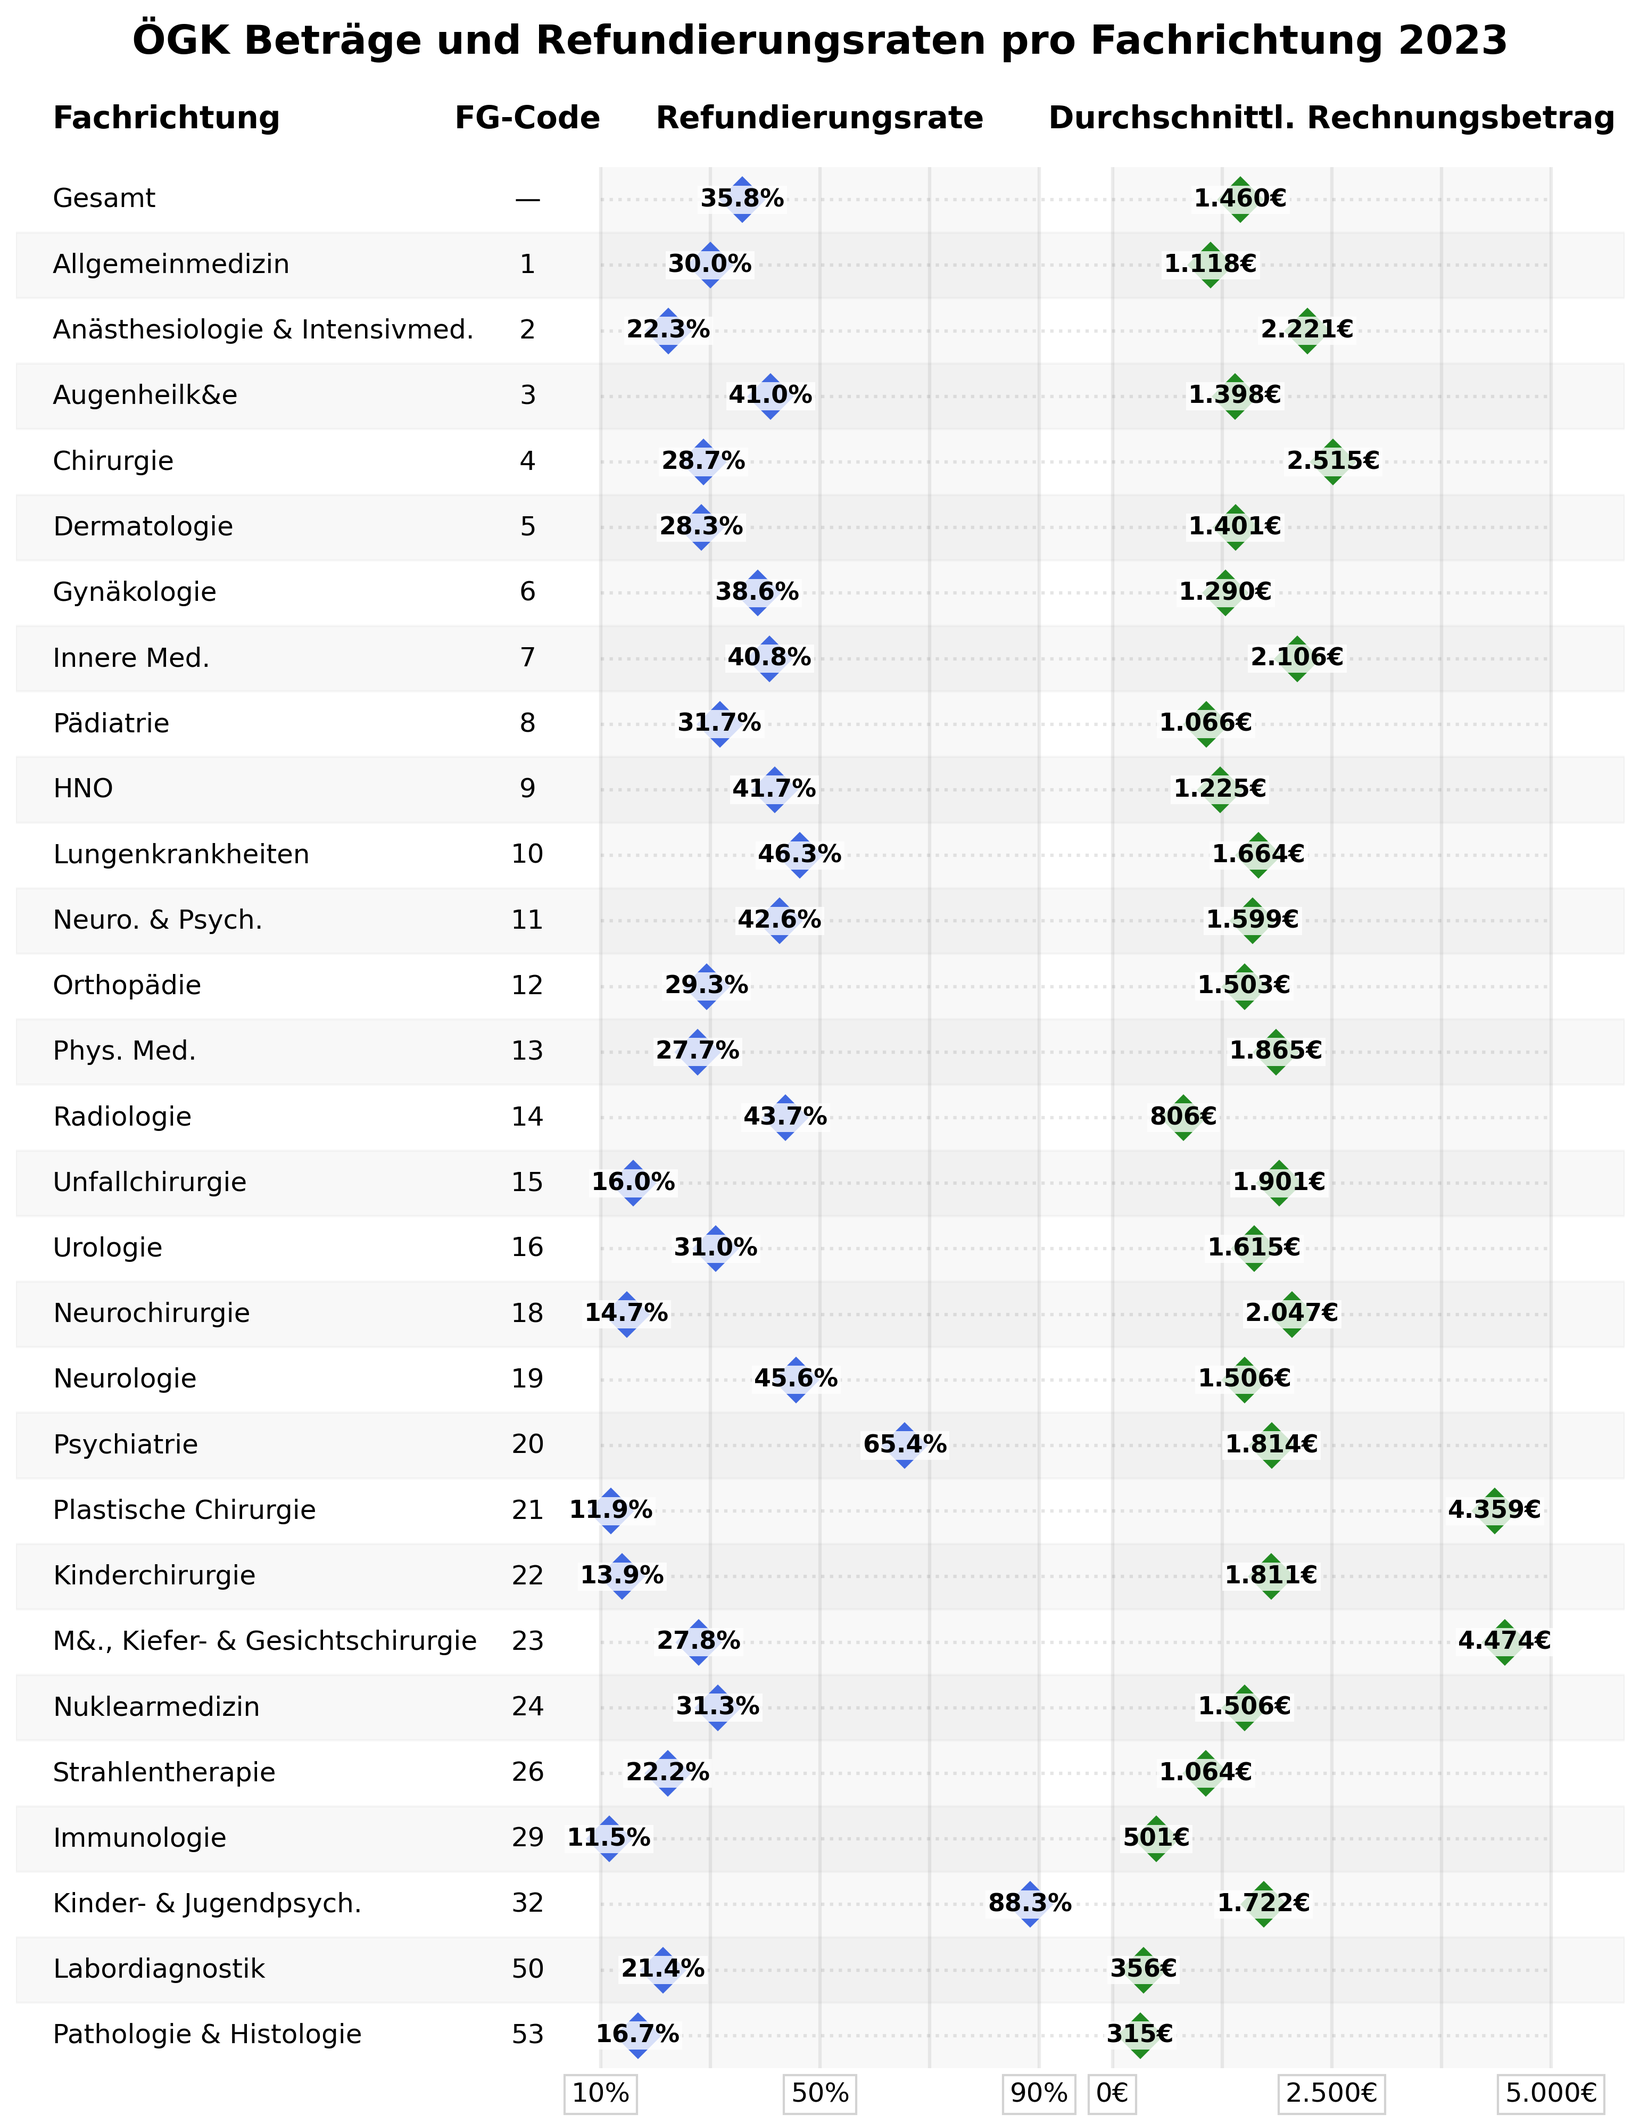
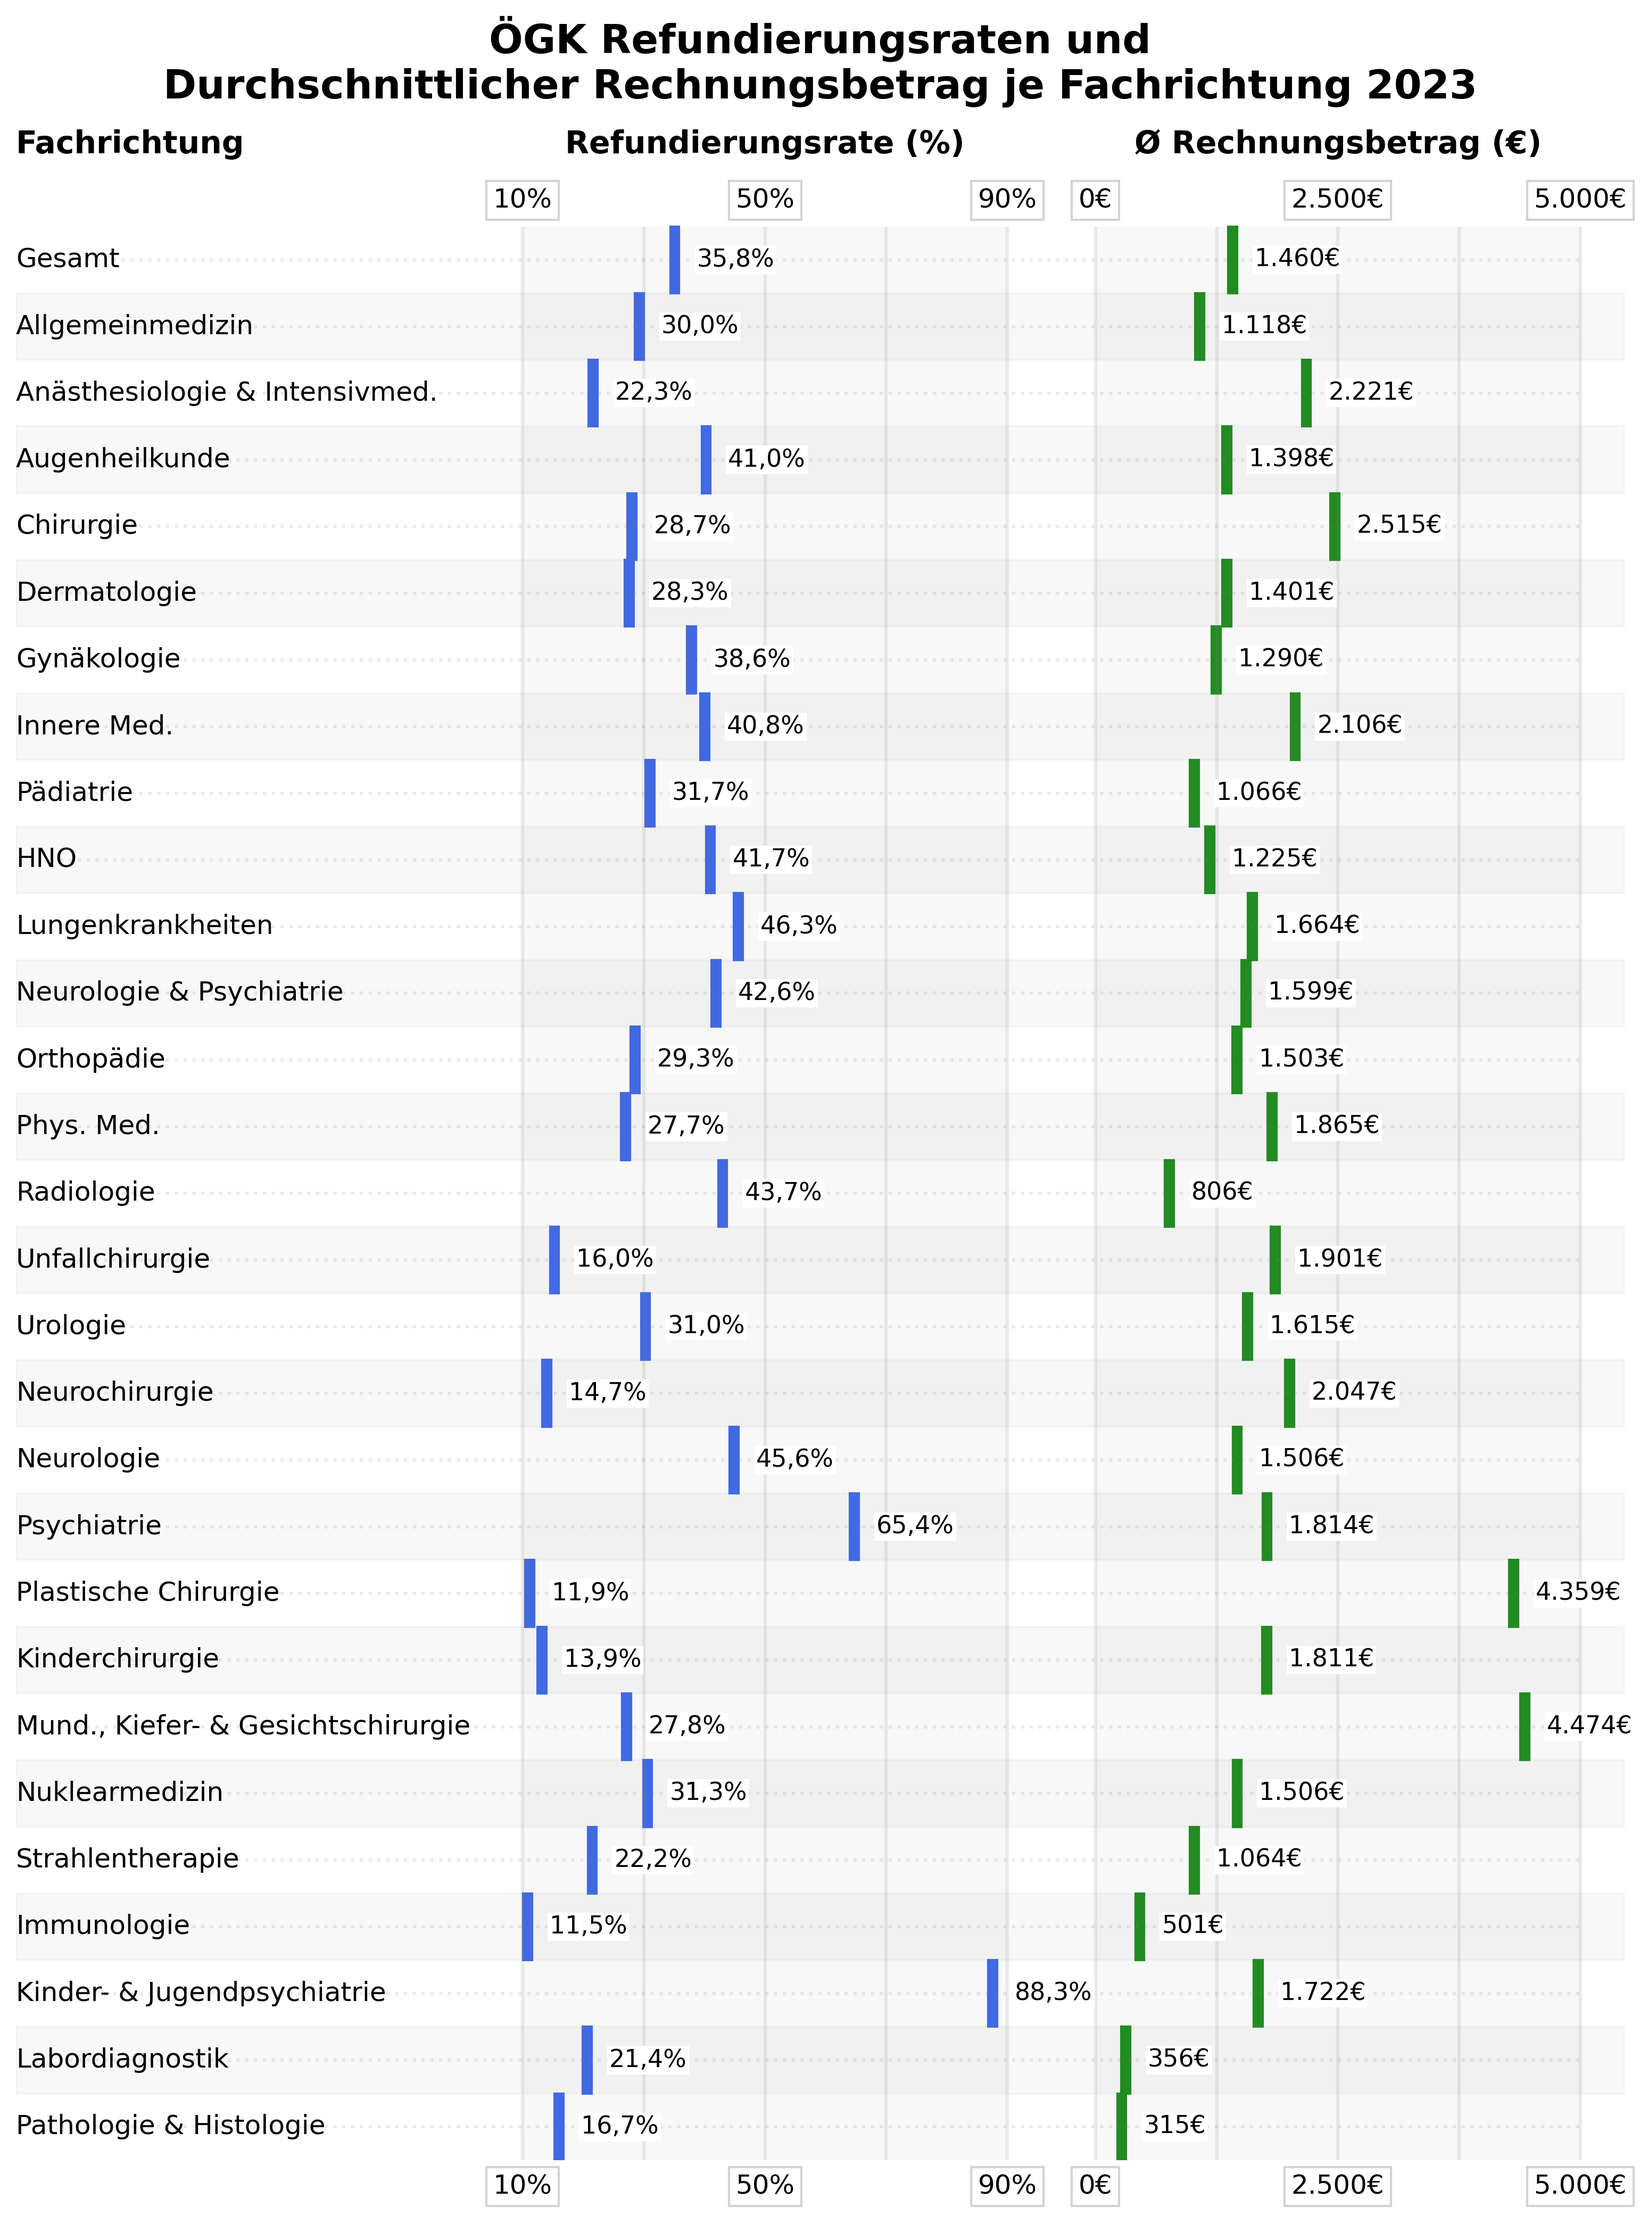
improve per fachrichtung plot

diff --git a/visualize/plot_oegk_betraege_pro_fachrichtung.py b/visualize/plot_oegk_betraege_pro_fachrichtung.py
@@ -28,31 +28,46 @@ df_final = df_final.dropna(subset=['Refundierungen', 'Rechnungsbeträge'])
 # Create shortened names with specific replacements
 def shorten_name(name):
     replacements = {
-        'FA für ': '',
-        'Arzt für ': '',
-        'Frauenheilkunde und Geburtshilfe': 'Gynäkologie',
-        'Haut- und Geschlechtskrankheiten': 'Dermatologie',
-        'Kinder- und Jugendheilkunde': 'Pädiatrie',
-        'Innere Medizin': 'Innere Med.',
-        'Orthopädie und orthopädische Chirurgie': 'Orthopädie',
-        'Physikalische Medizin': 'Phys. Med.',
-        'medizinische und chemische Labordiagnostik': 'Labordiagnostik',
-        'Mund-, Kiefer- und Gesichtschirurgie': 'MKG-Chirurgie',
-        'Strahlentherapie - Radioonkologie': 'Strahlentherapie',
-        'Hygiene und Mikrobiologie bzw. Labordiagnostik': 'Hygiene & Mikrobiologie',
-        'Neurologie und Psychiatrie/ Psychiatrie und Neurologie': 'Neuro. & Psych.',
-        'Hals-, Nasen- und Ohrenerkrankungen': 'HNO',
-        'Anästhesiologie und Intensivmedizin': 'Anästhesiologie & Intensivmed.',
-        'Augenheilkunde und Optometrie': 'Augenheilkunde',
-        'Kinder- und Jugendpsychiatrie': 'Kinder- & Jugendpsych.',
-        'Pathologie und Histologie': 'Pathologie & Histologie',
-        'und': '&'
+        "FA für ": "",
+        "Arzt für ": "",
+        "Frauenheilkunde und Geburtshilfe": "Gynäkologie",
+        "Haut- und Geschlechtskrankheiten": "Dermatologie",
+        "Kinder- und Jugendheilkunde": "Pädiatrie",
+        "Innere Medizin": "Innere Med.",
+        "Orthopädie und orthopädische Chirurgie": "Orthopädie",
+        "Physikalische Medizin": "Phys. Med.",
+        "medizinische und chemische Labordiagnostik": "Labordiagnostik",
+        "Mund-, Kiefer- und Gesichtschirurgie": "MKG-Chirurgie",
+        "Strahlentherapie - Radioonkologie": "Strahlentherapie",
+        "Hygiene und Mikrobiologie bzw. Labordiagnostik": "Hygiene & Mikrobiologie",
+        "Neurologie und Psychiatrie/ Psychiatrie und Neurologie": "Neurologie & Psychiatrie",
+        "Hals-, Nasen- und Ohrenerkrankungen": "HNO",
+        "Anästhesiologie und Intensivmedizin": "Anästhesiologie & Intensivmed.",
+        "Augenheilkunde und Optometrie": "Augenheilkunde",
+        "Kinder- und Jugendpsychiatrie": "Kinder- & Jugendpsychiatrie",
+        "Pathologie und Histologie": "Pathologie & Histologie",
+        " und ": " & ",
     }
     for old, new in replacements.items():
         name = name.replace(old, new)
     return name
 
 df_final['Kurzname'] = df_final['Fachrichtung'].apply(shorten_name)
+
+# Layout parameters
+FIGURE_WIDTH = 13
+FIGURE_HEIGHT = 16
+LEFT_MARGIN = -0.1
+RIGHT_MARGIN = 3.55
+BOTTOM_MARGIN = -0.5
+TOP_MARGIN = len(df_final)
+SCALE_WIDTH = 1.1
+SCALE_SPACING = 1.3
+
+# Column positions
+COL_FACHRICHTUNG = -0.1
+COL_REFUND = 1.6
+COL_BETRAG = 2.9
 
 # Calculate min/max values for scales
 refund_min = 10  # Start at 10%
@@ -66,93 +81,132 @@ plt.rcParams['axes.facecolor'] = 'white'
 plt.rcParams['font.family'] = 'sans-serif'
 
 # Create the plot with adjusted column widths
-fig, ax = plt.subplots(figsize=(13, 16))  # Adjusted height
-ax.set_xlim(-0.2, 4.2)  # Wider range for better spacing
-ax.set_ylim(-1, len(df_final))  # Reduced bottom space
+fig, ax = plt.subplots(figsize=(FIGURE_WIDTH, FIGURE_HEIGHT))
+ax.set_xlim(LEFT_MARGIN, RIGHT_MARGIN)
+ax.set_ylim(BOTTOM_MARGIN, TOP_MARGIN)
+
+# Create twin axis for top scales
+ax_top = ax.twiny()
+ax_top.set_xlim(LEFT_MARGIN, RIGHT_MARGIN)
+ax_top.set_ylim(BOTTOM_MARGIN, TOP_MARGIN)
+ax_top.axis('off')
 
 # Remove axes
 ax.axis('off')
 
 # Add title
-plt.title('ÖGK Beträge und Refundierungsraten pro Fachrichtung 2023', 
-          pad=10, fontsize=18, fontweight='bold', y=1.03)
+plt.title('ÖGK Refundierungsraten und\nDurchschnittlicher Rechnungsbetrag je Fachrichtung 2023', 
+          pad=25, fontsize=18, fontweight='bold', y=1.02)
 
 # Column headers with adjusted positions
-headers = ['Fachrichtung', 'FG-Code', 'Refundierungsrate', 'Durchschnittl. Rechnungsbetrag']
-positions = [-0.1, 1.2, 2.0, 3.4]  # Moved FG-Code from 0.8 to 1.0
+headers = ["Fachrichtung", "Refundierungsrate (%)", "Ø Rechnungsbetrag (€)"]
+positions = [COL_FACHRICHTUNG, COL_REFUND, COL_BETRAG]
 for i, (header, pos) in enumerate(zip(headers, positions)):
-    ax.text(pos, len(df_final), header, ha='left' if i == 0 else 'center', 
-            va='bottom', fontweight='bold', fontsize=14)
+    ax_top.text(pos, TOP_MARGIN+0.5, header, ha='left' if i == 0 else 'center', 
+                va='bottom', fontweight='bold', fontsize=14)
 
 # Add scale backgrounds and grid
-def draw_scale_background(x, y, width=1.2, height=len(df_final), color='gray', alpha=0.05):
-    ax.add_patch(plt.Rectangle((x-width/2, -0.5), width, height, 
+def draw_scale_background(x, y, width=SCALE_WIDTH, height=TOP_MARGIN, color='gray', alpha=0.05):
+    ax.add_patch(plt.Rectangle((x-width/2, BOTTOM_MARGIN), width, height, 
                               facecolor=color, alpha=alpha, edgecolor='none'))
     # Add vertical grid lines
     for i in range(5):  # 5 grid lines
         grid_x = x - width/2 + (width * i/4)
-        ax.vlines(grid_x, -0.5, height-0.5, color='gray', alpha=0.15, linestyle='-')
+        ax.vlines(grid_x, BOTTOM_MARGIN, height-0.5, color='gray', alpha=0.15, linestyle='-')
 
-draw_scale_background(2.0, -0.5)  # Refundierungsrate background
-draw_scale_background(3.4, -0.5)  # Rechnungsbetrag background
+draw_scale_background(COL_REFUND, BOTTOM_MARGIN)  # Refundierungsrate background
+draw_scale_background(COL_BETRAG, BOTTOM_MARGIN)  # Rechnungsbetrag background
 
 # Plot data
 for idx, row in df_final.iterrows():
-    y_pos = len(df_final) - df_final.index.get_loc(idx) - 1
-    
+    y_pos = TOP_MARGIN - df_final.index.get_loc(idx) - 1
+
     # Background for alternating rows
     if idx % 2 == 0:
         ax.axhspan(y_pos-0.5, y_pos+0.5, color='gray', alpha=0.05)
-    
-    # Fachrichtung (adjusted position)
-    ax.text(-0.1, y_pos, row['Kurzname'], ha='left', va='center', fontsize=12)
-    
-    # FG-Code (adjusted position) - as integer
-    if pd.notna(row['FG-Code']):
-        ax.text(1.2, y_pos, f"{int(row['FG-Code'])}", ha='center', va='center', fontsize=12)
-    else:
-        ax.text(1.2, y_pos, "—", ha='center', va='center', fontsize=12)
-    
+
+    # Fachrichtung
+    ax.text(COL_FACHRICHTUNG, y_pos, row['Kurzname'], ha='left', va='center', fontsize=12)
+
     # Horizontal guide lines (dotted)
-    ax.hlines(y_pos, 1.4, 4.0, color='gray', alpha=0.2, linestyle=':')
-    
+    ax.hlines(y_pos, LEFT_MARGIN+0.1, RIGHT_MARGIN-0.1, color='gray', alpha=0.15, linestyle=':')
+
     # Refundierungsrate (diamond on scale)
     rate = row['Refundierungsrate']
     if not pd.isna(rate):
         # Calculate x position based on value
-        x_pos = 2.0 - 0.6 + (1.2 * (rate - refund_min) / (refund_max - refund_min))
-        ax.plot(x_pos, y_pos, 'D', color='royalblue', markersize=14)
+        x_pos = COL_REFUND - SCALE_WIDTH/2 + (SCALE_WIDTH * (rate - refund_min) / (refund_max - refund_min))
+        ax.add_patch(
+            plt.Rectangle(
+                (x_pos - 0.02, y_pos -0.5), 0.02, 1, color="royalblue", alpha=1
+            )
+        )
+
+        # ax.plot(x_pos, y_pos, 'd', color='royalblue', markersize=14)
         # Add white background to text for better readability
-        ax.text(x_pos, y_pos, f"{rate:.1f}%", ha='center', va='center',
-                color='black', fontsize=11, fontweight='bold',
-                bbox=dict(facecolor='white', edgecolor='none', alpha=0.8, pad=1))
-    
+        ax.text(
+            x_pos+ 0.04,
+            y_pos,
+            f"{rate:.1f}%".replace(".", ","),
+            ha="left",
+            va="center",
+            color="black",
+            fontsize=11,
+            bbox=dict(facecolor="white", edgecolor="none", alpha=1, pad=1),
+        )
+
     # Durchschnittlicher Rechnungsbetrag (diamond on scale)
     avg_amount = row['Durchschnittlicher_Rechnungsbetrag']
     if not pd.isna(avg_amount):
         # Calculate x position based on value
-        x_pos = 3.4 - 0.6 + (1.2 * (avg_amount - betrag_min) / (betrag_max - betrag_min))
-        ax.plot(x_pos, y_pos, 'D', color='forestgreen', markersize=14)
+        x_pos = COL_BETRAG - SCALE_WIDTH/2 + (SCALE_WIDTH * (avg_amount - betrag_min) / (betrag_max - betrag_min))
+        ax.add_patch(
+            plt.Rectangle(
+                (x_pos - 0.02, y_pos -0.5), 0.02, 1, color="forestgreen", alpha=1
+            )
+        )
         formatted_amount = f"{avg_amount:,.0f}€".replace(",", ".")
         # Add white background to text for better readability
-        ax.text(x_pos, y_pos, formatted_amount, ha='center', va='center',
-                color='black', fontsize=11, fontweight='bold',
-                bbox=dict(facecolor='white', edgecolor='none', alpha=0.8, pad=1))
+        ax.text(
+            x_pos + 0.04,
+            y_pos,
+            formatted_amount,
+            ha="left",
+            va="center",
+            color="black",
+            fontsize=11,
+            bbox=dict(facecolor="white", edgecolor="none", alpha=1, pad=1),
+        )
 
 # Add scale indicators with background
-def add_scale_label(x, text, ha='center', va='top', y=-0.7):
+def add_scale_label(x, text, ha='center', va='top', y=BOTTOM_MARGIN-0.2):
     ax.text(x, y, text, ha=ha, va=va, fontsize=12,
             bbox=dict(facecolor='white', edgecolor='lightgray', alpha=1, pad=3))
 
-# Refundierungsrate scale with intermediate values
-add_scale_label(2.0-0.6, "10%", ha='center')
-add_scale_label(2.0, "50%", ha='center')
-add_scale_label(2.0+0.6, "90%", ha='center')
+# Add top scale indicators with background
+def add_top_scale_label(x, text, ha='center', va='bottom', y=TOP_MARGIN-0.3):
+    ax_top.text(x, y, text, ha=ha, va=va, fontsize=12,
+                bbox=dict(facecolor='white', edgecolor='lightgray', alpha=1, pad=3))
 
-# Rechnungsbetrag scale with intermediate values
-add_scale_label(3.4-0.6, "0€", ha='center')
-add_scale_label(3.4, "2.500€", ha='center')
-add_scale_label(3.4+0.6, "5.000€", ha='center')
+# Bottom Refundierungsrate scale with intermediate values
+add_scale_label(COL_REFUND-SCALE_WIDTH/2, "10%", ha='center')
+add_scale_label(COL_REFUND, "50%", ha='center')
+add_scale_label(COL_REFUND+SCALE_WIDTH/2, "90%", ha='center')
+
+# Bottom Rechnungsbetrag scale with intermediate values
+add_scale_label(COL_BETRAG-SCALE_WIDTH/2, "0€", ha='center')
+add_scale_label(COL_BETRAG, "2.500€", ha='center')
+add_scale_label(COL_BETRAG+SCALE_WIDTH/2, "5.000€", ha='center')
+
+# Top Refundierungsrate scale with intermediate values
+add_top_scale_label(COL_REFUND-SCALE_WIDTH/2, "10%", ha='center')
+add_top_scale_label(COL_REFUND, "50%", ha='center')
+add_top_scale_label(COL_REFUND+SCALE_WIDTH/2, "90%", ha='center')
+
+# Top Rechnungsbetrag scale with intermediate values
+add_top_scale_label(COL_BETRAG-SCALE_WIDTH/2, "0€", ha='center')
+add_top_scale_label(COL_BETRAG, "2.500€", ha='center')
+add_top_scale_label(COL_BETRAG+SCALE_WIDTH/2, "5.000€", ha='center')
 
 # Save the plot
 plt.savefig('../figures/OEGK/Betraege/oegk_betraege_pro_fachrichtung.png', dpi=300, bbox_inches='tight', facecolor='white')
